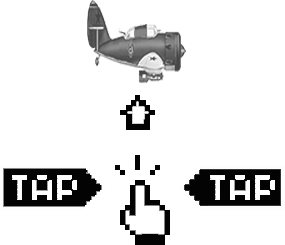
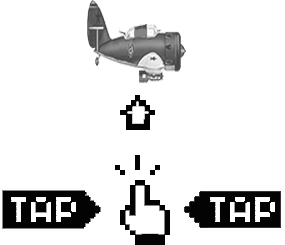
prepare to orientation control

Changed region(s): [[0.6456, 0.6857, 1.0, 0.9429], [0.0, 0.6857, 0.3649, 0.9429]]

diff --git a/FlappyPlane/src/com/example/FlappyPlane/MyActivity.java b/FlappyPlane/src/com/example/FlappyPlane/MyActivity.java
@@ -22,6 +22,7 @@ public class MyActivity extends SimpleBaseGameActivity {
     public static final float CAMERA_HEIGHT = 800;
     public static final float FLOOR_BOUND = 601;
     protected static final int RING_SPAWN_INTERVAL = 100;
+    public static boolean tap_or_orient;
     // game states
     protected static final int STATE_READY = 1;
     protected static final int STATE_PLAYING = 2;
@@ -84,14 +85,14 @@ public class MyActivity extends SimpleBaseGameActivity {
             }
 
             private void die() {
-                float newY = mSceneManager.mPlane.move();
+                float newY = mSceneManager.mPlane.move(true);
                 if (newY >= FLOOR_BOUND) dead();
             }
 
             private void play() {
 
                 mCurrentWorldPosition -= SCROLL_SPEED;
-                float newY = mSceneManager.mPlane.move(); // get the plane to update itself
+                float newY = mSceneManager.mPlane.move(tap_or_orient); // get the plane to update itself
                 if (newY >= FLOOR_BOUND) gameOver();
 
                 // now create rings
@@ -186,16 +187,26 @@ public class MyActivity extends SimpleBaseGameActivity {
 
                         case STATE_READY:
                             if(pSceneTouchEvent.getX() >= mSceneManager.mInstructionsSprite.getX() &&
-                               pSceneTouchEvent.getX() < (mSceneManager.mInstructionsSprite.getX() + mSceneManager.mInstructionsSprite.getWidth()) &&
-                               pSceneTouchEvent.getY() >= mSceneManager.mInstructionsSprite.getY() &&
-                               pSceneTouchEvent.getY() < (mSceneManager.mInstructionsSprite.getY() + mSceneManager.mInstructionsSprite.getHeight()))
+                                    pSceneTouchEvent.getX() < (mSceneManager.mInstructionsSprite.getX() + mSceneManager.mInstructionsSprite.getWidth()) &&
+                                    pSceneTouchEvent.getY() >= mSceneManager.mInstructionsSprite.getY() + 112 &&
+                                    pSceneTouchEvent.getY() < (mSceneManager.mInstructionsSprite.getY() + mSceneManager.mInstructionsSprite.getHeight()))
                             {
+                                tap_or_orient = true;//tap
+                                startPlaying();
+                            }
+                            if(pSceneTouchEvent.getX() >= mSceneManager.mInstructions2Sprite.getX() &&
+                                    pSceneTouchEvent.getX() < (mSceneManager.mInstructions2Sprite.getX() + mSceneManager.mInstructions2Sprite.getWidth()) &&
+                                    pSceneTouchEvent.getY() >= mSceneManager.mInstructions2Sprite.getY() &&
+                                    pSceneTouchEvent.getY() < (mSceneManager.mInstructions2Sprite.getY() + mSceneManager.mInstructions2Sprite.getHeight()))
+                            {
+                                tap_or_orient = false;//orient
                                 startPlaying();
                             }
                             break;
 
                         case STATE_PLAYING:
-                            mSceneManager.mPlane.flap();
+                            if(tap_or_orient)
+                                mSceneManager.mPlane.flap();
                             break;
 
                         case STATE_DEAD:
@@ -242,9 +253,10 @@ public class MyActivity extends SimpleBaseGameActivity {
         mResourceManager.mMusic.seekTo(0);
         mScene.detachChild(mSceneManager.mGetReadyText);
         mScene.detachChild(mSceneManager.mInstructionsSprite);
-        mScene.detachChild(mSceneManager.mCopyText);
+        mScene.detachChild(mSceneManager.mInstructions2Sprite);
         updateScore();
-        mSceneManager.mPlane.flap();
+        if(tap_or_orient)
+            mSceneManager.mPlane.flap();
     }
 
     private void gameOver() {
@@ -287,7 +299,7 @@ public class MyActivity extends SimpleBaseGameActivity {
 
         mScene.attachChild(mSceneManager.mGetReadyText);
         mScene.attachChild(mSceneManager.mInstructionsSprite);
-        mScene.attachChild(mSceneManager.mCopyText);
+        mScene.attachChild(mSceneManager.mInstructions2Sprite);
     }
 
     @Override

diff --git a/FlappyPlane/src/com/example/FlappyPlane/Plane.java b/FlappyPlane/src/com/example/FlappyPlane/Plane.java
@@ -85,32 +85,36 @@ public class Plane {
         mSprite.setX(mPlaneXOffset);
         mCurrentPlaneAngle = 0;
         mSprite.setRotation(mCurrentPlaneAngle);
+        mVerticalSpeed = 0;
     }
 
-    public float move() {
+    public float move(boolean tap_or_orient) {
 
         float newY = mSprite.getY() + mVerticalSpeed;
         newY = Math.max(newY, 0);
         newY = Math.min(newY, MyActivity.FLOOR_BOUND);
         mSprite.setY(newY);
 
-        // now calculate the new speed
-        mAcceleration += GRAVITY;
-        mVerticalSpeed += mAcceleration;
-        mVerticalSpeed = Math.min(mVerticalSpeed, MAX_DROP_SPEED);
+        if(tap_or_orient) {
+            // now calculate the new speed
+            mAcceleration += GRAVITY;
+            mVerticalSpeed += mAcceleration;
+            mVerticalSpeed = Math.min(mVerticalSpeed, MAX_DROP_SPEED);
 
-        if (mVerticalSpeed <= (FLAP_POWER)) {
-            mCurrentPlaneAngle -= PLANE_FLAP_ANGLE_POWER;
+            if (mVerticalSpeed <= (FLAP_POWER)) {
+                mCurrentPlaneAngle -= PLANE_FLAP_ANGLE_POWER;
+            } else {
+                mCurrentPlaneAngle += FLAP_ANGLE_DRAG;
+            }
+
+            mCurrentPlaneAngle = Math.max(mCurrentPlaneAngle, PLANE_MAX_FLAP_ANGLE);
+            mCurrentPlaneAngle = Math.min(mCurrentPlaneAngle, PLANE_MAX_DROP_ANGLE);
+
+            // now apply bird angle based on current speed
+            mSprite.setRotation(mCurrentPlaneAngle);
         } else {
-            mCurrentPlaneAngle += FLAP_ANGLE_DRAG;
+            //TODO:orientation
         }
-
-        mCurrentPlaneAngle = Math.max(mCurrentPlaneAngle, PLANE_MAX_FLAP_ANGLE);
-        mCurrentPlaneAngle = Math.min(mCurrentPlaneAngle, PLANE_MAX_DROP_ANGLE);
-
-        // now apply bird angle based on current speed
-        mSprite.setRotation(mCurrentPlaneAngle);
-
         return newY;
     }
 

diff --git a/FlappyPlane/src/com/example/FlappyPlane/SceneManager.java b/FlappyPlane/src/com/example/FlappyPlane/SceneManager.java
@@ -16,7 +16,7 @@ public class SceneManager {
     Text mScoreText;
     Text mGetReadyText;
     Sprite mInstructionsSprite;
-    Text mCopyText;
+    Sprite mInstructions2Sprite;
     Text mYouLooseText;
     Plane mPlane;
     private SimpleBaseGameActivity mContext;
@@ -57,7 +57,7 @@ public class SceneManager {
         mScene.attachChild(mScoreText);
 
         // get ready text
-        mGetReadyText = new Text(0, 220, mResourceManager.mGetReadyFont, "Get Ready!", new TextOptions(HorizontalAlign.CENTER), mContext.getVertexBufferObjectManager());
+        mGetReadyText = new Text(0, 170, mResourceManager.mGetReadyFont, "Get Ready!", new TextOptions(HorizontalAlign.CENTER), mContext.getVertexBufferObjectManager());
         mGetReadyText.setZIndex(3);
         mScene.attachChild(mGetReadyText);
         centerText(mGetReadyText);
@@ -67,14 +67,13 @@ public class SceneManager {
         mInstructionsSprite.setZIndex(3);
         mScene.attachChild(mInstructionsSprite);
         centerSprite(mInstructionsSprite);
-        mInstructionsSprite.setY(mInstructionsSprite.getY() + 20);
+        mInstructionsSprite.setY(mInstructionsSprite.getY() - 60);
 
-
-        // copy text //"(c) Dean Wild 2014"
-        mCopyText = new Text(0, 750, mResourceManager.mCopyFont, "", new TextOptions(HorizontalAlign.CENTER), mContext.getVertexBufferObjectManager());
-        mCopyText.setZIndex(3);
-        mScene.attachChild(mCopyText);
-        centerText(mCopyText);
+        mInstructions2Sprite = new Sprite(0, 0, 200, 53, mResourceManager.mInstructions2Texture, mContext.getVertexBufferObjectManager());
+        mInstructions2Sprite.setZIndex(3);
+        mScene.attachChild(mInstructions2Sprite);
+        centerSprite(mInstructions2Sprite);
+        mInstructions2Sprite.setY(mInstructions2Sprite.getY() + 70);
 
 
         // you suck text

diff --git a/FlappyPlane/src/com/example/FlappyPlane/ResourceManager.java b/FlappyPlane/src/com/example/FlappyPlane/ResourceManager.java
@@ -26,6 +26,8 @@ public class ResourceManager {
     public static final int BACKGROUND_TEXTURE_HEIGHT = 1184;
     public static final int INSTRUCTIONS_TEXTURE_WIDTH = 285;
     public static final int INSTRUCTIONS_TEXTURE_HEIGHT = 245;
+    public static final int INSTRUCTIONS2_TEXTURE_WIDTH = 285;
+    public static final int INSTRUCTIONS2_TEXTURE_HEIGHT = 76;
     // fonts
     Font mScoreFont;
     Font mGetReadyFont;
@@ -41,6 +43,7 @@ public class ResourceManager {
     BitmapTextureAtlas mBackgroundBitmapTextureAtlas;
     ITextureRegion mBackgroundTextureRegion;
     TextureRegion mInstructionsTexture;
+    TextureRegion mInstructions2Texture;
 
     private SimpleBaseGameActivity context;
 
@@ -63,6 +66,9 @@ public class ResourceManager {
         BitmapTextureAtlas instructionsTextureAtlas = new BitmapTextureAtlas(context.getTextureManager(), INSTRUCTIONS_TEXTURE_WIDTH, INSTRUCTIONS_TEXTURE_HEIGHT, TextureOptions.BILINEAR);
         mInstructionsTexture = BitmapTextureAtlasTextureRegionFactory.createFromAsset(instructionsTextureAtlas, context, "instructions.png", 0, 0);
         instructionsTextureAtlas.load();
+        BitmapTextureAtlas instructions2TextureAtlas = new BitmapTextureAtlas(context.getTextureManager(), INSTRUCTIONS2_TEXTURE_WIDTH, INSTRUCTIONS2_TEXTURE_HEIGHT, TextureOptions.BILINEAR);
+        mInstructions2Texture = BitmapTextureAtlasTextureRegionFactory.createFromAsset(instructions2TextureAtlas, context, "instructions2.png", 0, 0);
+        instructions2TextureAtlas.load();
 
         Ring.onCreateResources(context); // let it sort its own resources out
         Plane.onCreateResources(context);
